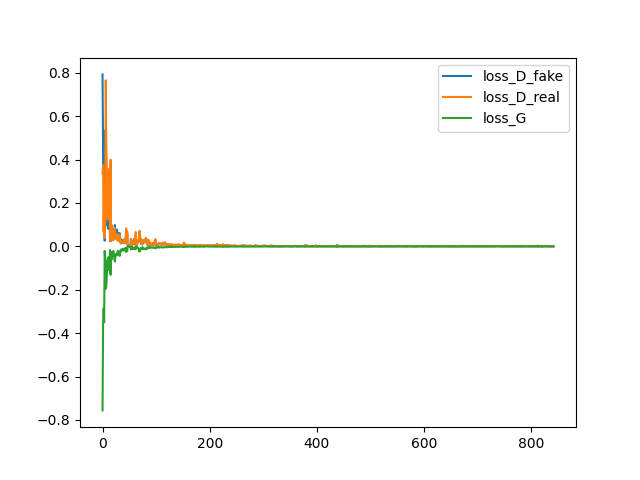
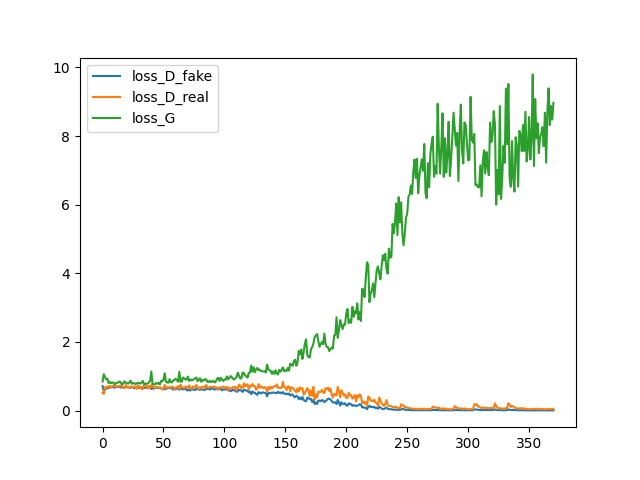
cGAN update

diff --git a/GAN/gan.py b/GAN/gan.py
@@ -2,7 +2,7 @@ import torch.nn as nn
 import torch
 
 class GAN(nn.Module):
-    def __init__(self, input_size = (28,28), latent_dim = 10 ,device = None):
+    def __init__(self, input_size = (28,28), latent_dim = 100 ,device = None):
         super().__init__()
         self.D = nn.Sequential(
             nn.Linear(input_size[0]*input_size[1], 512),
@@ -13,11 +13,15 @@ class GAN(nn.Module):
             nn.Sigmoid(), # 0 to 1
         )
         self.G = nn.Sequential(
-            nn.Linear(latent_dim, 256),
+            nn.Linear(latent_dim, 128),
+            nn.ReLU(),
+            nn.Linear(128, 256),
             nn.ReLU(),
             nn.Linear(256, 512),
             nn.ReLU(),
-            nn.Linear(512 , input_size[0]*input_size[1]),
+            nn.Linear(512, 1024),
+            nn.ReLU(),
+            nn.Linear(1024 , input_size[0]*input_size[1]),
             nn.Tanh() # -1 to 1
         )
         self.latent_dim = latent_dim
@@ -33,28 +37,28 @@ class GAN(nn.Module):
             loss_dict[key] = 0
         for idx, (img, _ ) in enumerate(train_loader):
             batch_size = img.shape[0]
-
-            optimizer_D.zero_grad()
-            img = img.view(batch_size, -1)
-            real_img = img.to(self.device)
-            real_pred = self.D(real_img)
-            fake_latent = torch.rand((batch_size, self.latent_dim)).to(self.device)
-            fake_img = self.G(fake_latent)
-            fake_pred = self.D(fake_img)
-            loss_D_fake = torch.mean(-torch.log(1-fake_pred))
-            loss_D_real = torch.mean(-torch.log(real_pred))
-            loss_D = (loss_D_fake + loss_D_real)/2
-            loss_D.backward()
-            loss_dict["loss_D_fake"] += loss_D_fake.item()
-            loss_dict["loss_D_real"] += loss_D_real.item()
-            optimizer_D.step()
+            for _ in range(1):
+                optimizer_D.zero_grad()
+                img = img.view(batch_size, -1)
+                real_img = img.to(self.device)
+                real_pred = self.D(real_img)
+                fake_latent = torch.rand((batch_size, self.latent_dim)).to(self.device)
+                fake_img = self.G(fake_latent)
+                fake_pred = self.D(fake_img)
+                loss_D_fake = torch.mean(-torch.log(1-fake_pred))
+                loss_D_real = torch.mean(-torch.log(real_pred))
+                loss_D = (loss_D_fake + loss_D_real)
+                loss_D.backward()
+                loss_dict["loss_D_fake"] += loss_D_fake.item()
+                loss_dict["loss_D_real"] += loss_D_real.item()
+                optimizer_D.step()
 
             optimizer_G.zero_grad()
             fake_latent = torch.rand((batch_size, self.latent_dim)).to(self.device)
             fake_img = self.G(fake_latent)
             fake_pred = self.D(fake_img)
-            loss_G= torch.mean(torch.log(1-fake_pred))
-            # loss_G = torch.mean(-torch.log(fake_pred))
+            # loss_G= torch.mean(torch.log(1-fake_pred))
+            loss_G = torch.mean(-torch.log(fake_pred))
             loss_G.backward()
             loss_dict["loss_G"] += loss_G.item()
             optimizer_G.step()
@@ -62,7 +66,7 @@ class GAN(nn.Module):
             loss_dict[key] = loss_dict[key]/ len(train_loader)
         return loss_dict
     @torch.no_grad()
-    def example(self, latent_code):
+    def generate(self, latent_code):
         code = latent_code.to(self.device)
         gen = self.G(code)
         return gen.detach().cpu()

diff --git a/GAN/train.py b/GAN/train.py
@@ -1,35 +1,46 @@
 from matplotlib import pyplot as plt
 import torch
-from torch.optim import Adam
+from torch.optim import Adam, SGD
 from torchvision.datasets import MNIST
 import torchvision.transforms as T
 from torchvision.utils import save_image
 from torch.utils.data.dataloader import DataLoader
+import numpy as np
+import random
 
 from tqdm import tqdm
 import os
 
 from gan import GAN
 
+random_seed = 10170
+torch.manual_seed(random_seed)
+torch.cuda.manual_seed(random_seed)
+torch.cuda.manual_seed_all(random_seed) # if use multi-GPU
+torch.backends.cudnn.deterministic = True
+torch.backends.cudnn.benchmark = False
+np.random.seed(random_seed)
+random.seed(random_seed)
 
-n_epoch = 1000
-save_result = 10
 
-device = torch.device("cuda:1")
+n_epoch = 500
+save_result = 1
+
+device = torch.device("cuda:0")
 model = GAN(device = device)
 
-tmp_folder = "tmp"
+tmp_folder = "tmp3"
 os.makedirs(tmp_folder, exist_ok= True)
 
 train_data= MNIST("../../Data/", train = True, download=True, transform = T.ToTensor())
-train_loader = DataLoader(train_data, batch_size= 1024)
+train_loader = DataLoader(train_data, batch_size= 100)
 
-optimizer_D = Adam(model.D.parameters(), lr = 1e-4)
-optimizer_G = Adam(model.G.parameters(), lr = 1e-4)
+optimizer_D = Adam(model.D.parameters(),lr = 2e-4, momentum= .5)
+optimizer_G = Adam(model.G.parameters(),lr = 2e-4, momentum= .5)
 
 pbar = tqdm(range(n_epoch))
 loss_plot = {}
-fixed_sample= torch.rand(10,10)
+fixed_sample= torch.rand(10,100)
 for ep in pbar:
     loss_dict = model.train(train_loader, optimizer_D, optimizer_G)
     print_str= ""
@@ -40,7 +51,7 @@ for ep in pbar:
         loss_plot[key].append(loss_dict[key])
     pbar.set_description_str(f"{ep} {print_str}")
     if ep % save_result == 0:
-        gen = model.example(fixed_sample).view(-1, 1, 28, 28)
+        gen = model.generate(fixed_sample).view(-1, 1, 28, 28)
         save_image(gen, f"{tmp_folder}/{ep}_save.png" ,nrow = 5)
 for key in loss_plot.keys():
     plt.plot(loss_plot[key],label=key)

diff --git a/VAE/train.py b/VAE/train.py
@@ -13,8 +13,8 @@ import os
 from vae import VAE
 
 
-n_epoch = 1000
-save_result = 10
+n_epoch = 150
+save_result = 1
 
 device = torch.device("cuda:0")
 model = VAE(device = device)
